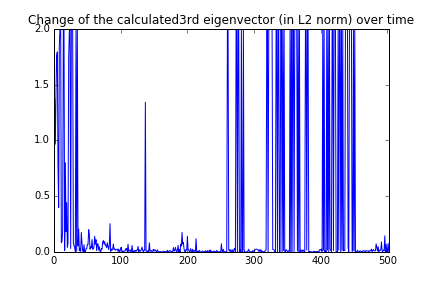
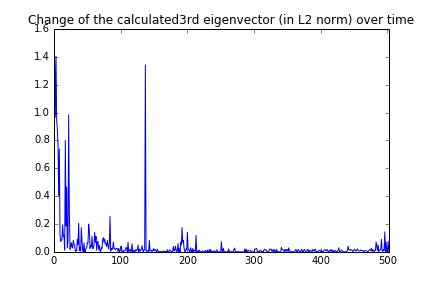
small fixes

diff --git a/Question2and3.py b/Question2and3.py
@@ -225,7 +225,9 @@ if __name__ == "__main__":
 		evector_current[:num_evalues,:] = tmp_evectors
 		evector_change = evector_current - evector_prev
 		evector_change_norm = np.linalg.norm(evector_change, 2, axis=1)
-		evector_change_df.iloc[t, :num_evalues_toshow] = evector_change_norm
+		evector_change2 = evector_current + evector_prev
+		evector_change_norm2 = np.linalg.norm(evector_change2, 2, axis=1)
+		evector_change_df.iloc[t, :num_evalues_toshow] = np.min([evector_change_norm,evector_change_norm2],axis=0)
 		evector_prev = evector_current
 		
 	eigenvalues_df.plot()
